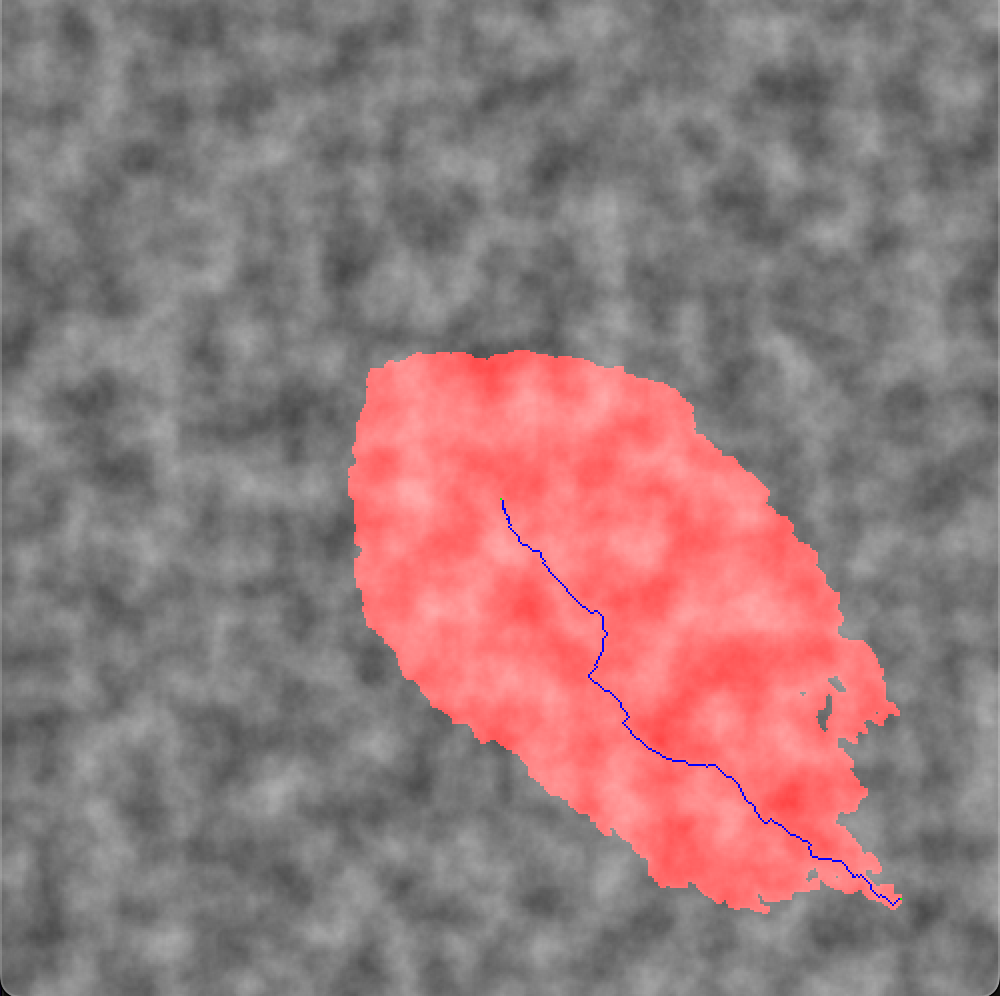
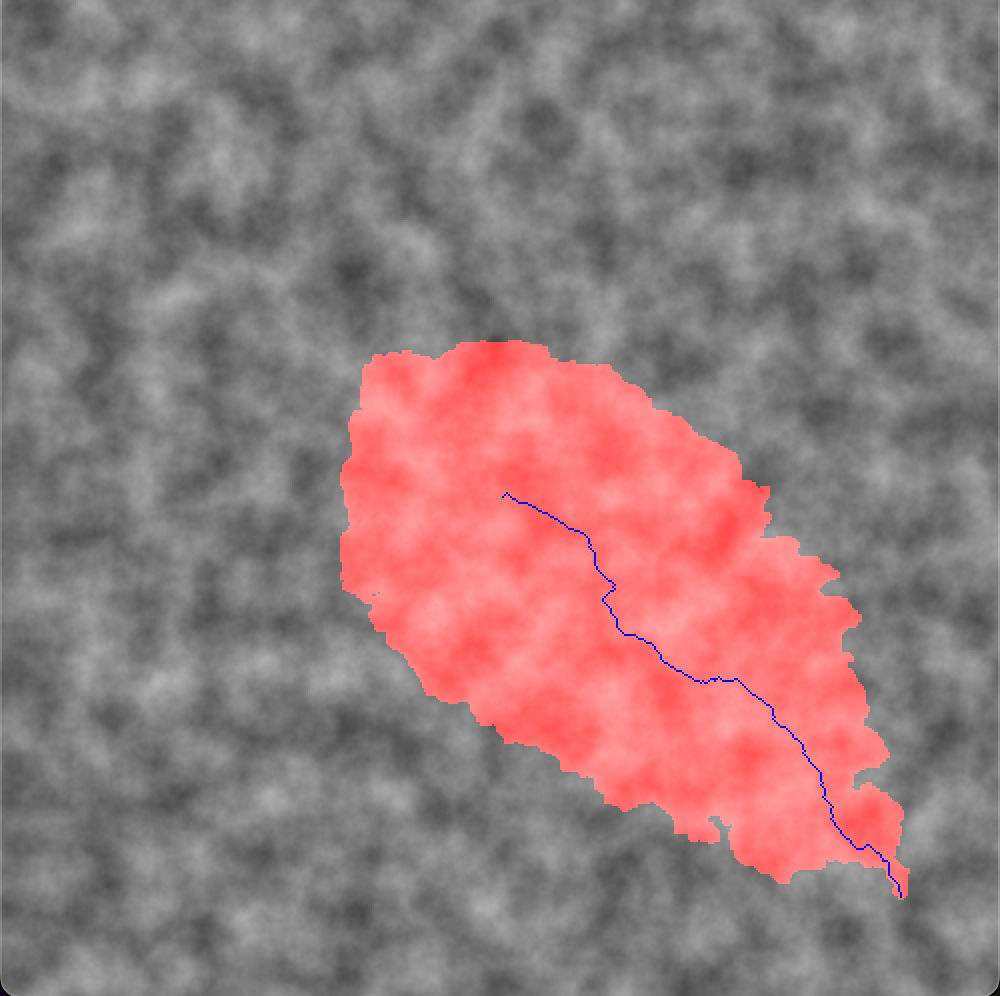
readme done

diff --git a/README.md b/README.md
@@ -18,24 +18,35 @@ A* 알고리즘은 주어진 출발 꼭짓점에서부터 목표 꼭짓점까지
 ## 결과
 
 ### `Stupid`
+
 ![Stupid](imgs/stupid.png)
-`PathCost, 1649.1171875, Uncovered, 401, TimeTaken, 3`
+`PathCost, 1373.80078125, Uncovered, 401, TimeTaken, 2`
 
 브루트 포스 알고리즘으로 시뮬레이션한 결과입니다. 이 알고리즘은 목표에 도달하기 데 필요한 만큼 수직으로 이동한 다음 수평으로 이동합니다. 즉, 점들 사이의 비용을 무시합니다.
 
 파란 줄은 알고리즘이 선택한 경로입니다.
-경로의 비용은 약 1649이고 총 401개의 점을 봤습니다. 선택한 경로 이외에 다른 점들을 보지 않아서, 속도가 가장 빠릅니다. 하지만 최단 경로를 찾아내지 못합니다.
+경로의 비용은 약 1373이고 총 401개의 점을 봤습니다. 선택한 경로 이외에 다른 점들을 보지 않아서, 속도가 가장 빠릅니다. 하지만 최단 경로를 찾아내지 못합니다.
 
 ### `Dijkstra`
-![Dijkstra](imgs/dijkstra.png)
-`PathCost, 412.25, Uncovered, 228102, TimeTaken, 11209`
 
-데이크스트라 알고리즘으로 시뮬레이션한 결과입니다. 빨간색으로 칠해져 있는 부분은 최단 경로를 파악하기 위해서 봐야 했던 점들입니다. 보다시피, 최단 경로를 찾았지만, 많은 점을 봐야 해서 가장 느립니다.
+![Dijkstra](imgs/dijkstra.png)
+`PathCost, 388.875, Uncovered, 222929, TimeTaken, 11146`
+
+데이크스트라 알고리즘으로 시뮬레이션한 결과입니다. 빨간색으로 칠해져 있는 부분은 최단 경로를 파악하기 위해서 봐야 했던 점들입니다. 보다시피, 최단 경로를 찾았지만, 많은 점을 봐야 해서 비효율적입니다.
 
 ### `AStar`
-![A*](imgs/astar.png)
-`PathCost, 413.8125, Uncovered, 49601, TimeTaken, 9358`
 
-A* 알고리즘으로 시뮬레이션한 결과입니다. 최단 경로를 찾고도
+![A*](imgs/astar.png)
+`PathCost, 388.875, Uncovered, 47467, TimeTaken, 8564`
+
+A* 알고리즘으로 시뮬레이션한 결과입니다. 데이크스트라 알고리즘보다 훨신 적은 점을 보고도 최단 경로를 찾았습니다.
 
 ## 실행하는 법
+
+1. `make`으로 컴파일 하기.
+
+2. `java Main -w <세계 너비> -h <세계 높이> <1개 이상의 경로 알고리즘>`
+
+    * `java Main -w 500 -h 500 Stupid Dijkstra AStar`
+
+3. `make clean`으로 컴파일된 파일 지우기.
